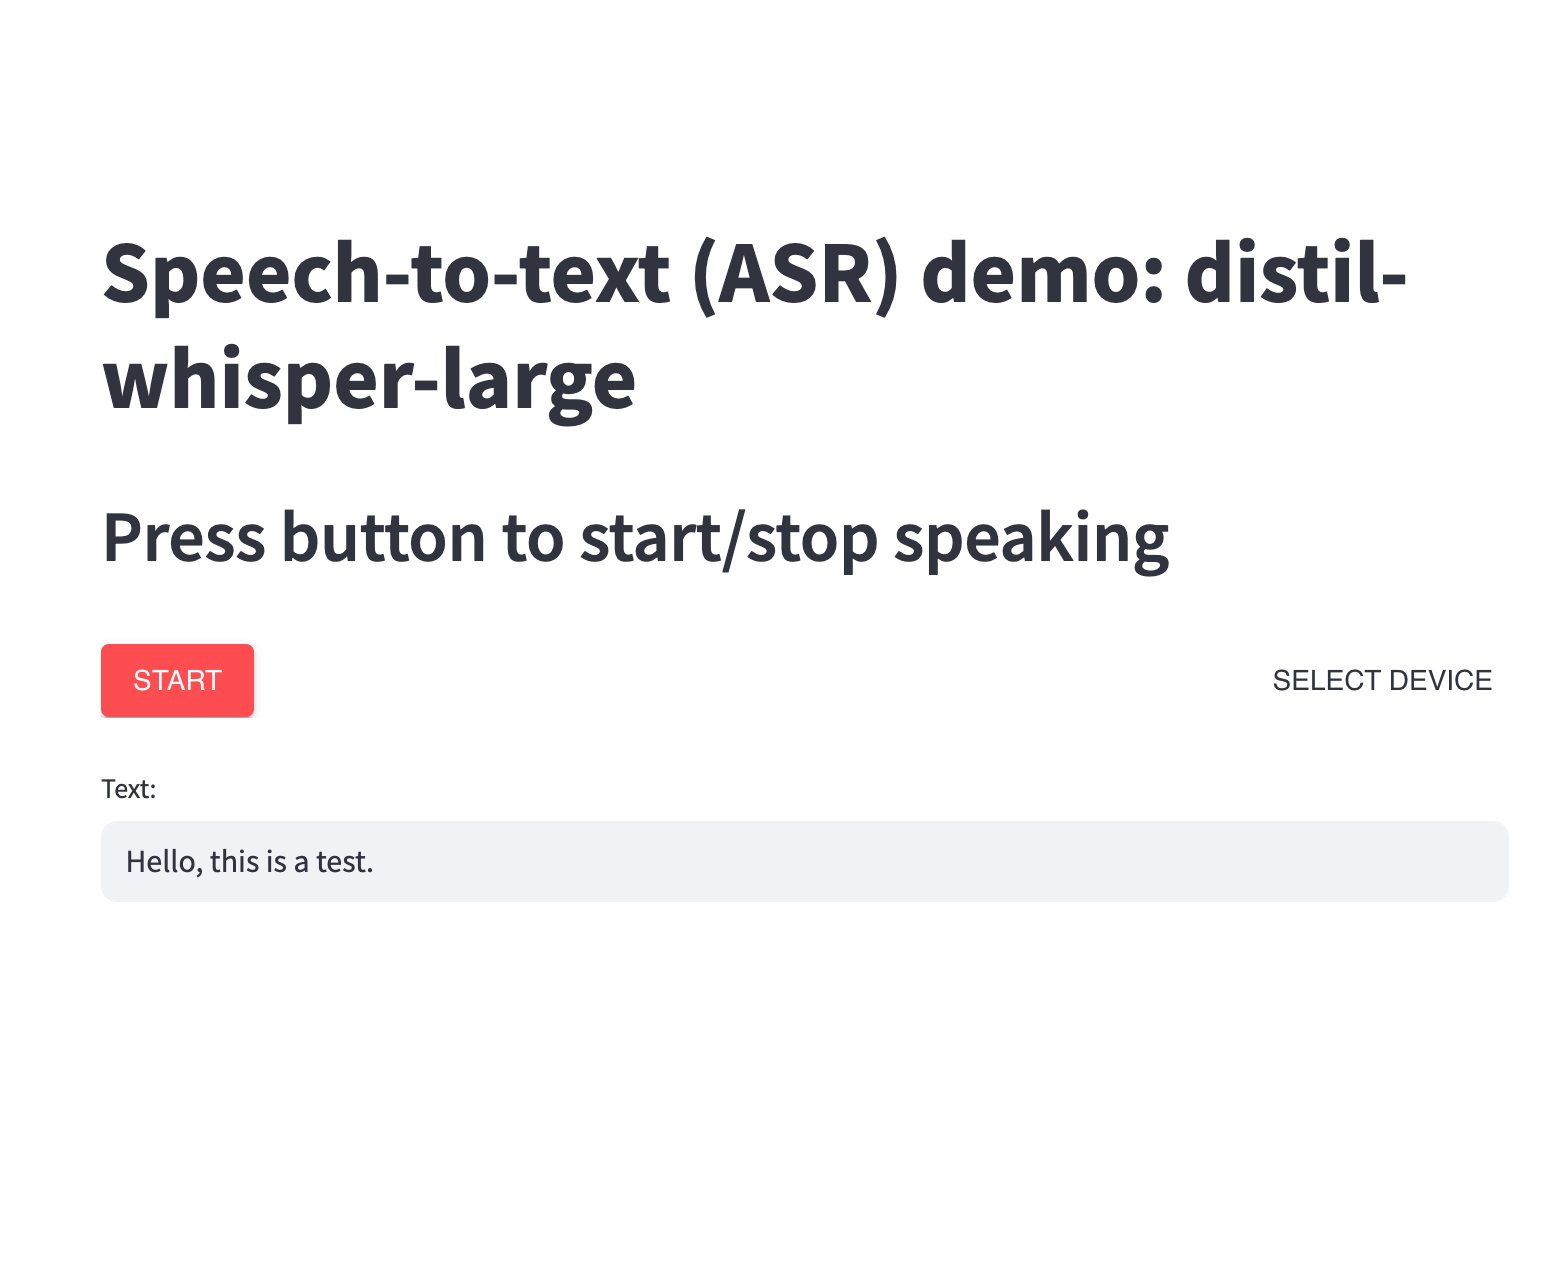
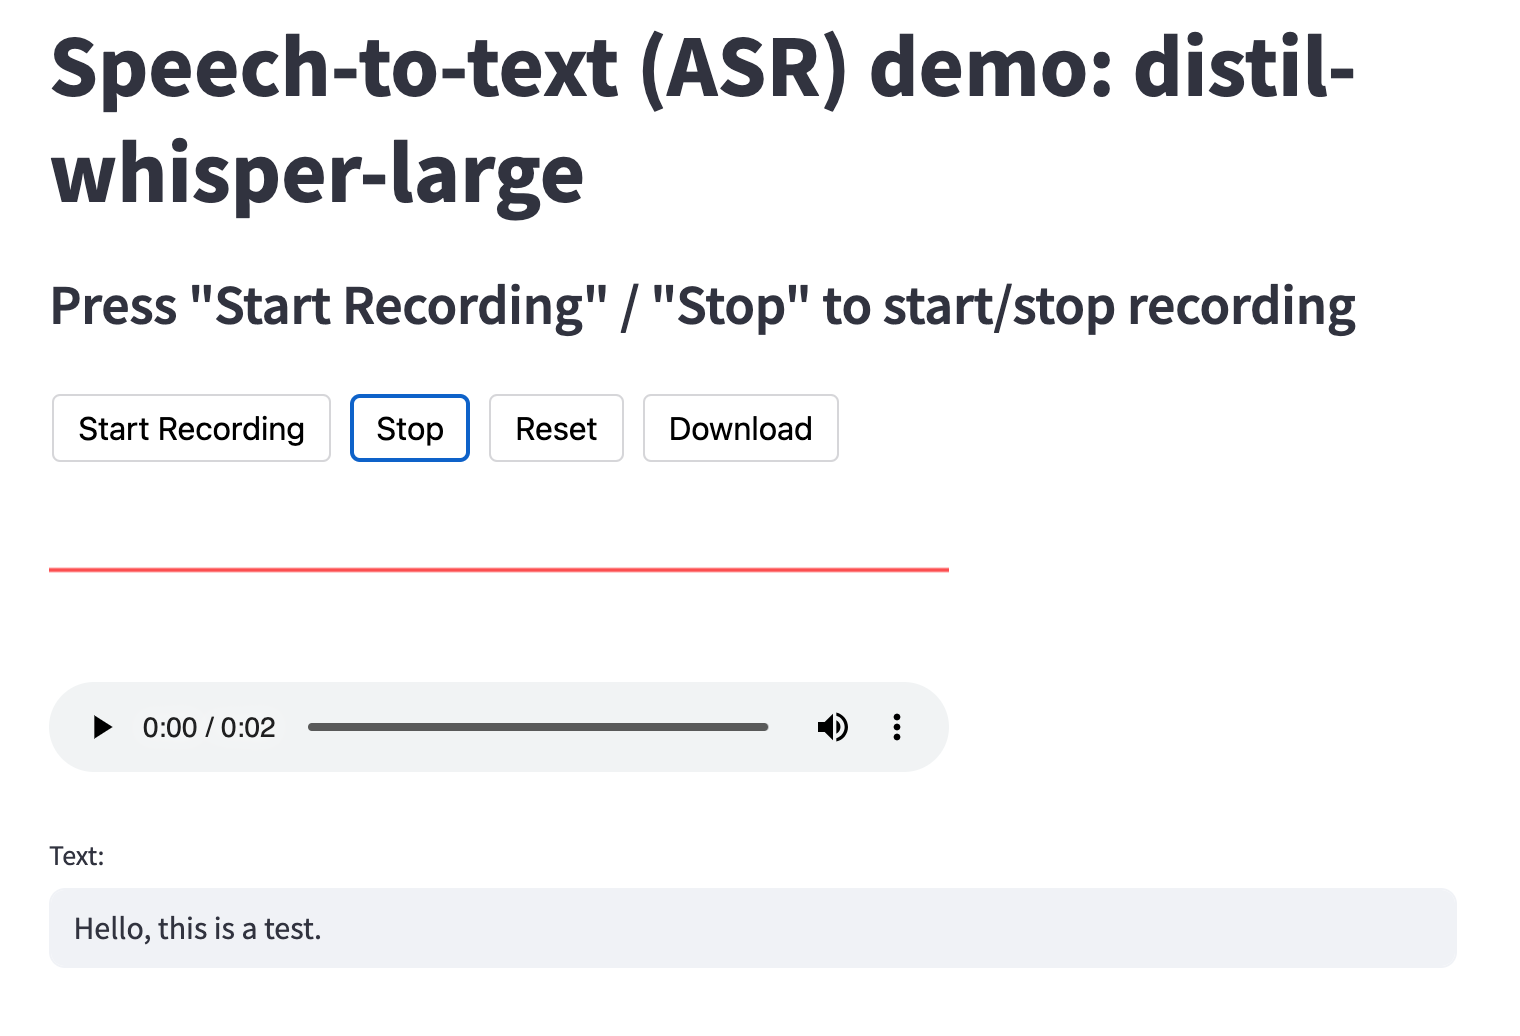
Add app using streamlit-audiorec

diff --git a/app.py b/app.py
@@ -1,0 +1,61 @@
+import torch
+from transformers import AutoModelForSpeechSeq2Seq, AutoProcessor, pipeline
+import streamlit as st
+from st_audiorec import st_audiorec
+
+
+# ASR model
+@st.cache_resource
+def load_model_pipe():
+    # Hardware settings
+    device = "cuda:0" if torch.cuda.is_available() else "cpu"
+    torch_dtype = torch.float16 if torch.cuda.is_available() else torch.float32
+
+    # Set up model & pipeline
+    model_id = "distil-whisper/distil-large-v3"  # "openai/whisper-large-v3"
+    model = AutoModelForSpeechSeq2Seq.from_pretrained(
+        model_id, torch_dtype=torch_dtype, low_cpu_mem_usage=True, use_safetensors=True
+    )
+    model.to(device)
+    processor = AutoProcessor.from_pretrained(model_id)
+    pipe = pipeline(
+        "automatic-speech-recognition",
+        model=model,
+        tokenizer=processor.tokenizer,
+        feature_extractor=processor.feature_extractor,
+        max_new_tokens=256,
+        chunk_length_s=30,
+        batch_size=8,
+        return_timestamps=False,
+        torch_dtype=torch_dtype,
+        device=device,
+    )
+    return pipe
+
+pipe = load_model_pipe()
+
+# Wrapper function for ASR
+def transcribe_speech(audio_obj):
+    output = pipe(
+        audio_obj,
+        generate_kwargs={
+            "task": "transcribe",
+            "language": "english",  # needed?
+        },
+    )
+    return output["text"]
+
+# Main app
+def audiorec_demo_app():
+    st.title("Speech-to-text (ASR) demo: distil-whisper-large")
+    st.subheader('Press "Start Recording" / "Stop" to start/stop recording')
+
+    wav_audio_data = st_audiorec()
+    asr_text = ""
+    if wav_audio_data is not None:
+        asr_text = transcribe_speech(wav_audio_data)
+
+    _ = st.text_input("Text:", value=asr_text)
+
+if __name__ == '__main__':
+    audiorec_demo_app()

diff --git a/README.md b/README.md
@@ -1,9 +1,6 @@
 # Streamlit Whisper ASR app
 Basic Streamlit app to record audio from user's microphone, run Automatic Speech Recognition (ASR) using distil-whisper-large, and show the transcribed text.
 
-![screenshot](/app_demo.png)
-
-
 ## Pre-reqs
 ```
 python -m venv venv
@@ -11,11 +8,7 @@ source venv/bin/activate
 pip install -r requirements.txt
 ```
 
-## How to run
-```
-streamlit run st_app.py
-```
-
+## Set up HTTPS (if needed)
 If running beyond localhost, you may need HTTPS so the browser can access your microphone.
 Make note of the port the app is running on, e.g. 8501. Then set up an HTTPS proxy using https://github.com/suyashkumar/ssl-proxy/ (change the command below to match your OS):
 ```
@@ -26,3 +19,17 @@ E.g.
 ./ssl-proxy-linux-amd64 -from 0.0.0.0:8509 -to 127.0.0.1:8501
 ```
 Where internal_http_port is the port the app is running on (e.g. 8501), external https port is the port to serve on (e.g. 8509 -> https://your_url:8509)
+
+## How to run app
+This app uses https://github.com/stefanrmmr/streamlit-audio-recorder
+```
+streamlit run app.py
+```
+![screenshot](/app_demo.png)
+
+## How to run WebRTC app
+This app uses https://github.com/whitphx/streamlit-webrtc
+```
+streamlit run app_webrtc.py
+```
+![screenshot](/app_webrtc_demo.png)
